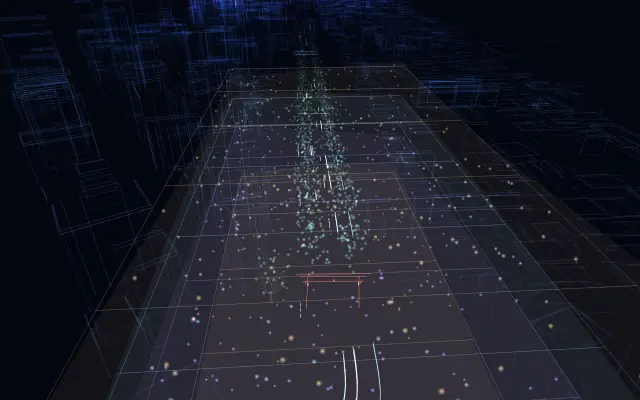
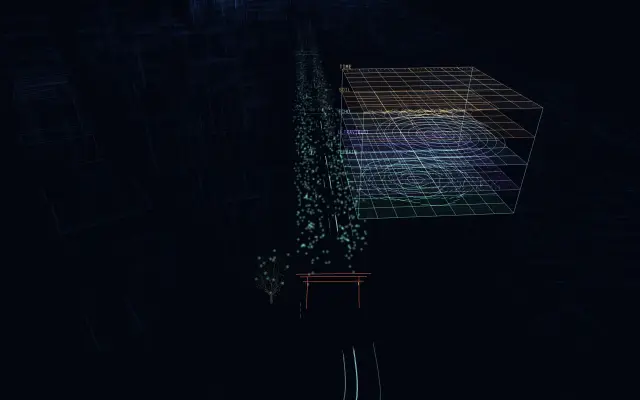
TOP: 最初の画面を線の層が積み上がる 3D に（手本 d4・d5）・式を副見出しの大きさに

diff --git a/js/sando-scroll.js b/js/sando-scroll.js
@@ -178,23 +178,32 @@ export async function start(sec) {
   });
   const ULab = label('U = g( P( E, B ), K )', '#eef5fb', 56, 2.4); ULab.position.set(0, 4 + 5 * 4.2 + 1.5, 0); FX.add(ULab); fxMats.push([ULab.material, 1]);
 
-  // 7b) 最初の画面：受けとり方の層（紫外・こだま・土の中・欅の時間）が参道の上に重なる。潜るにつれて薄れる
+  // 7b) 最初の画面（本人の手本＝d4・d5「線形のグラフィックで、情報が積層するイメージ」）：受けとり方ごとの層が線で積み上がる
   const TOPL = new T.Group(); S.add(TOPL); const topMats = [];
-  { const P0 = curve.getPointAt(uEnd * 0.06), D0 = curve.getTangentAt(uEnd * 0.06); TOPL.position.copy(P0); TOPL.rotation.y = Math.atan2(D0.x, D0.z);
-    [[0xb48cff, 18], [0x9fd8ff, 30], [0xe0a864, -6], [0xf2c58a, 42]].forEach(([c, y], i) => {
-      const g = new T.PlaneGeometry(70, 260, 14, 52), pa = g.attributes.position;
-      for (let k = 0; k < pa.count; k++) { const x = pa.getX(k), z = pa.getY(k); pa.setZ(k, Math.sin(x * 0.04 + i) * 2.2 + Math.cos(z * 0.025 + i * 1.7) * 2.6); }
-      g.computeVertexNormals();
-      const m = new T.MeshBasicMaterial({ color: c, transparent: true, opacity: 0, side: T.DoubleSide, depthWrite: false, blending: T.AdditiveBlending, fog: false });
-      const sh = new T.Mesh(g, m); sh.rotation.x = -Math.PI / 2; sh.position.set(0, y, -120); TOPL.add(sh); topMats.push([m, 0.06]);
-      const LG = []; for (let q = 0; q <= 8; q++) { const zz = -130 + q * 32.5; LG.push(-35, zz, 0, 35, zz, 0); } LG.push(-35, -130, 0, -35, 130, 0, 35, -130, 0, 35, 130, 0); const lgg = new T.BufferGeometry(); lgg.setAttribute('position', new T.Float32BufferAttribute(LG, 3));
-      const w = new T.LineSegments(lgg, new T.LineBasicMaterial({ color: c, transparent: true, opacity: 0, depthWrite: false, fog: false }));
-      w.rotation.x = -Math.PI / 2; w.position.copy(sh.position); TOPL.add(w); topMats.push([w.material, 0.35]);
-      const pts = []; for (let k = 0; k < (mob ? 140 : 260); k++) pts.push((rnd() - 0.5) * 70, y + (rnd() - 0.5) * 4, -120 + (rnd() - 0.5) * 260);
-      const pg = new T.BufferGeometry(); pg.setAttribute('position', new T.Float32BufferAttribute(pts, 3));
-      const pm = new T.PointsMaterial({ map: dot, color: c, size: 1.6, sizeAttenuation: true, transparent: true, opacity: 0, depthWrite: false, blending: T.AdditiveBlending, fog: false });
-      TOPL.add(new T.Points(pg, pm)); topMats.push([pm, 0.8]);
-    }); }
+  { const P0 = curve.getPointAt(uEnd * 0.065), D0 = curve.getTangentAt(uEnd * 0.065); const sh_ = mob ? 0 : 46; TOPL.position.set(P0.x - D0.z * sh_, P0.y + (mob ? -64 : -26), P0.z + D0.x * sh_); TOPL.rotation.y = Math.atan2(D0.x, D0.z);
+    const LAYS = [['TERRAIN', 0x7fe0b4], ['ULTRAVIOLET', 0xb48cff], ['ECHO', 0x9fd8ff], ['SOIL', 0xe0a864], ['TIME', 0xf2c58a]];
+    const SZ = 64, N = 8;
+    LAYS.forEach(([nm, c], i) => {
+      const y = 16 + i * 11, L = [];
+      for (let q = 0; q <= N; q++) { const t = -SZ / 2 + q * SZ / N; L.push(-SZ / 2, y, t, SZ / 2, y, t, t, y, -SZ / 2, t, y, SZ / 2); }
+      // 層ごとの模式：地形＝等高線、紫外＝点、こだま＝同心円、土＝根の線、時間＝目盛り
+      if (i === 0) for (let r = 4; r < 30; r += 4) for (let k = 0; k < 48; k++) { const a = k / 48 * 6.283, b = (k + 1) / 48 * 6.283, w = 1 + Math.sin(k * 0.7 + r) * 0.08; L.push(Math.cos(a) * r * w, y, Math.sin(a) * r * w * 0.8, Math.cos(b) * r * w, y, Math.sin(b) * r * w * 0.8); }
+      if (i === 2) for (let r = 3; r < 30; r += 3.5) for (let k = 0; k < 40; k++) { const a = k / 40 * 6.283, b = (k + 1) / 40 * 6.283; L.push(Math.cos(a) * r - 8, y, Math.sin(a) * r, Math.cos(b) * r - 8, y, Math.sin(b) * r); }
+      if (i === 3) { const br = (x, z, a, l, d) => { if (d > 4) return; const ex = x + Math.cos(a) * l, ez = z + Math.sin(a) * l; L.push(x, y, z, ex, y, ez); br(ex, ez, a - 0.5, l * 0.7, d + 1); br(ex, ez, a + 0.45, l * 0.7, d + 1); }; for (let k = 0; k < 5; k++) br((k - 2) * 10, -20, 1.57 + (k - 2) * 0.15, 9, 0); }
+      if (i === 4) for (let k = -30; k <= 30; k += 2) L.push(k, y, SZ / 2 - 1, k, y, SZ / 2 - (k % 10 === 0 ? 6 : 3));
+      const g = new T.BufferGeometry(); g.setAttribute('position', new T.Float32BufferAttribute(L, 3));
+      const m = new T.LineBasicMaterial({ color: c, transparent: true, opacity: 0, depthWrite: false, blending: T.AdditiveBlending, fog: false });
+      TOPL.add(new T.LineSegments(g, m)); topMats.push([m, i === 0 ? 0.55 : 0.45]);
+      const pl = new T.Mesh(new T.PlaneGeometry(SZ, SZ), new T.MeshBasicMaterial({ color: c, transparent: true, opacity: 0, side: T.DoubleSide, depthWrite: false, blending: T.AdditiveBlending, fog: false }));
+      pl.rotation.x = -Math.PI / 2; pl.position.y = y; TOPL.add(pl); topMats.push([pl.material, 0.05]);
+      if (i === 1) { const pts = []; for (let k = 0; k < (mob ? 160 : 320); k++) pts.push((rnd() - 0.5) * SZ, y + rnd() * 0.6, (rnd() - 0.5) * SZ); const pg = new T.BufferGeometry(); pg.setAttribute('position', new T.Float32BufferAttribute(pts, 3)); const pm = new T.PointsMaterial({ map: dot, color: c, size: 1.1, sizeAttenuation: true, transparent: true, opacity: 0, depthWrite: false, blending: T.AdditiveBlending, fog: false }); TOPL.add(new T.Points(pg, pm)); topMats.push([pm, 0.9]); }
+      const lb = label(nm, '#' + new T.Color(c).getHexString(), 40, mob ? 4.2 : 3.4); lb.position.set(SZ / 2 + 2, y + 1, SZ / 2); lb.center.set(0, 0.5); TOPL.add(lb); topMats.push([lb.material, 0.95]);
+    });
+    // 層をつなぐ縦の細い線
+    const V = []; for (const [x, z] of [[-32, -32], [32, -32], [-32, 32], [32, 32]]) V.push(x, 16, z, x, 16 + 44, z);
+    const vg = new T.BufferGeometry(); vg.setAttribute('position', new T.Float32BufferAttribute(V, 3));
+    const vm = new T.LineBasicMaterial({ color: 0xa8f2f6, transparent: true, opacity: 0, depthWrite: false, fog: false }); TOPL.add(new T.LineSegments(vg, vm)); topMats.push([vm, 0.5]);
+  }
   let px = 0, py = 0;
   addEventListener('pointermove', e => { px = e.clientX / innerWidth - 0.5; py = e.clientY / innerHeight - 0.5; kick(); }, { passive: true });
   addEventListener('deviceorientation', e => { if (e.gamma == null) return; px = Math.max(-0.5, Math.min(0.5, e.gamma / 60)); py = Math.max(-0.5, Math.min(0.5, (e.beta - 45) / 90)); kick(); }, { passive: true });
@@ -226,7 +235,7 @@ export async function start(sec) {
     if (wTop > 0.01) { C.rotateY((Math.sin(tt * 0.12) * 0.05 - px * 0.08) * wTop); C.rotateX((-py * 0.05) * wTop); }
     const wBee = win(p, 0.31, 0.44), wBat = win(p, 0.46, 0.58), wSoil = win(p, 0.6, 0.71), wKey = win(p, 0.72, 0.79), wFx = win(p, 0.8, 0.9, 0.025), wEye = win(p, 0.15, 0.79, 0.05);
     treeM.color.copy(TREE0).lerp(TREE_UV, wBee).lerp(TREE_BAT, wBat * 0.8); treeM.opacity = 0.75 * (1 - wSoil * 0.7); treeM.size = (mob ? 2.6 : 2.2) * (1 - 0.72 * Math.max(wEye, sm((p - 0.15) / 0.05) * (1 - sm((p - 0.95) / 0.04))));
-    lineM.opacity = 0.85 * (1 - wBat * 0.5) * (1 - wSoil * 0.6);
+    lineM.opacity = 0.85 * (1 - wBat * 0.5) * (1 - wSoil * 0.6) * (1 - 0.7 * (1 - sm(p / 0.12)));
     pave.opacity = leaf.opacity = wEye * (1 - wSoil * 0.75) * (1 - wBat * 0.6);
     pave.color.setHex(0x9a968c).lerp(PV, wBee * 0.45); leaf.color.setHex(0x8a7a62).lerp(LV, wBee * 0.5);
     rootM.opacity = wSoil * 0.9;

diff --git a/index.html b/index.html
@@ -1508,7 +1508,7 @@ b.addEventListener('keydown',function(e){if(e.key==='Tab'&&!e.shiftKey&&!l.hidde
 
 <style id="pr-p2-css">@media(min-width:760px){.cg-design .pr-grid>li.pr-card:only-child{grid-column:1/-1;display:grid;grid-template-columns:minmax(0,1.15fr) minmax(0,1fr);gap:28px;align-items:start}.cg-design .pr-grid>li.pr-card:only-child>.ap-f{margin:0}}@media(max-width:759px){.cg-design .pr-cases-h>span{font-size:18px;letter-spacing:.02em}.cg-design .pr-cases-h>span::before{width:14px!important;margin-right:.4em!important}}.cg-design .pr-flow{font-size:15px;line-height:1.95}</style>
 <script>document.addEventListener('click',function(e){var b=e.target.closest&&e.target.closest('[data-pr-open]');if(!b)return;var d=b.closest('li').querySelector('details');if(!d)return;d.open=true;d.scrollIntoView({block:'nearest',behavior:'smooth'});var s=d.querySelector('summary');s&&s.focus({preventScroll:true})});</script>
-<link rel="stylesheet" href="refine.css?v=20261113rc"><link rel="stylesheet" href="sando-top.css?v=20261116a"><link rel="stylesheet" href="unify.css?v=20261116b">
+<link rel="stylesheet" href="refine.css?v=20261113rc"><link rel="stylesheet" href="sando-top.css?v=20261116b"><link rel="stylesheet" href="unify.css?v=20261116b">
 </head>
 <body class="cg-design">
 
@@ -1589,7 +1589,7 @@ window.__sdSound=function(s){scene=s;if(ac&&ac.state==="running")mix(s)};
 b.addEventListener("click",function(){var on=b.getAttribute("aria-pressed")!=="true";b.setAttribute("aria-pressed",on);if(on){if(!ac)init();ac.resume();mix(scene)}else if(ac){ac.suspend()}});
 document.addEventListener("visibilitychange",function(){if(document.hidden&&ac)ac.suspend()})})();</script>
 <script>/* 終わりの MISSION・VISION が見えている間は、下の帯と音の札を隠す（重ならないように） */(function(){var h=document.getElementById("sdHero"),l=h&&h.querySelector(".sd-last");if(!l||!window.IntersectionObserver)return;new IntersectionObserver(function(e){h.classList.toggle("sd-end",e[0].intersectionRatio>0.05)},{threshold:[0,0.05,0.2]}).observe(l)})();</script>
-<script type="module">/* 2026-11-13 参道の 3D は静止画のあとで読む。動きを減らす設定では静止画のまま */(function(){var s=document.getElementById("sdHero");if(!s||matchMedia("(prefers-reduced-motion: reduce)").matches)return;var go=function(){import("./js/sando-scroll.js?v=20261116a").then(function(m){m.start(s)}).catch(function(){})};var later=function(){(window.requestIdleCallback||function(f){setTimeout(f,150)})(go,{timeout:500})};if(document.readyState==="complete")later();else addEventListener("load",later,{once:true});})();</script>
+<script type="module">/* 2026-11-13 参道の 3D は静止画のあとで読む。動きを減らす設定では静止画のまま */(function(){var s=document.getElementById("sdHero");if(!s||matchMedia("(prefers-reduced-motion: reduce)").matches)return;var go=function(){import("./js/sando-scroll.js?v=20261116c").then(function(m){m.start(s)}).catch(function(){})};var later=function(){(window.requestIdleCallback||function(f){setTimeout(f,150)})(go,{timeout:500})};if(document.readyState==="complete")later();else addEventListener("load",later,{once:true});})();</script>
 <div class="cg-home">
 
 

diff --git a/sando-top.css b/sando-top.css
@@ -257,3 +257,7 @@ html body #top .m2-sec figcaption.m2-cap{font-size:16px!important;line-height:1.
 @media (max-width:759px){#top .sd-first{justify-content:flex-start;padding-top:84px}#top .sd-first .m2-big{font-size:clamp(30px,9.4vw,40px)}}
 #top .m2-sec{padding-top:56px}
 @media (max-width:759px){#top .cg-inline-heading,#top .cg-inline-heading span{white-space:normal!important;overflow-wrap:anywhere}}
+/* 2026-11-16 本人「式が大きすぎる」：副見出しくらいに */
+#top .m2-big,#top .sd-first .m2-big{font-size:clamp(20px,2vw,26px)!important;margin-top:14px;text-shadow:none}
+@media (max-width:759px){#top .m2-big,#top .sd-first .m2-big{font-size:20px!important}}
+#top .m2-fx{font-size:72px}
